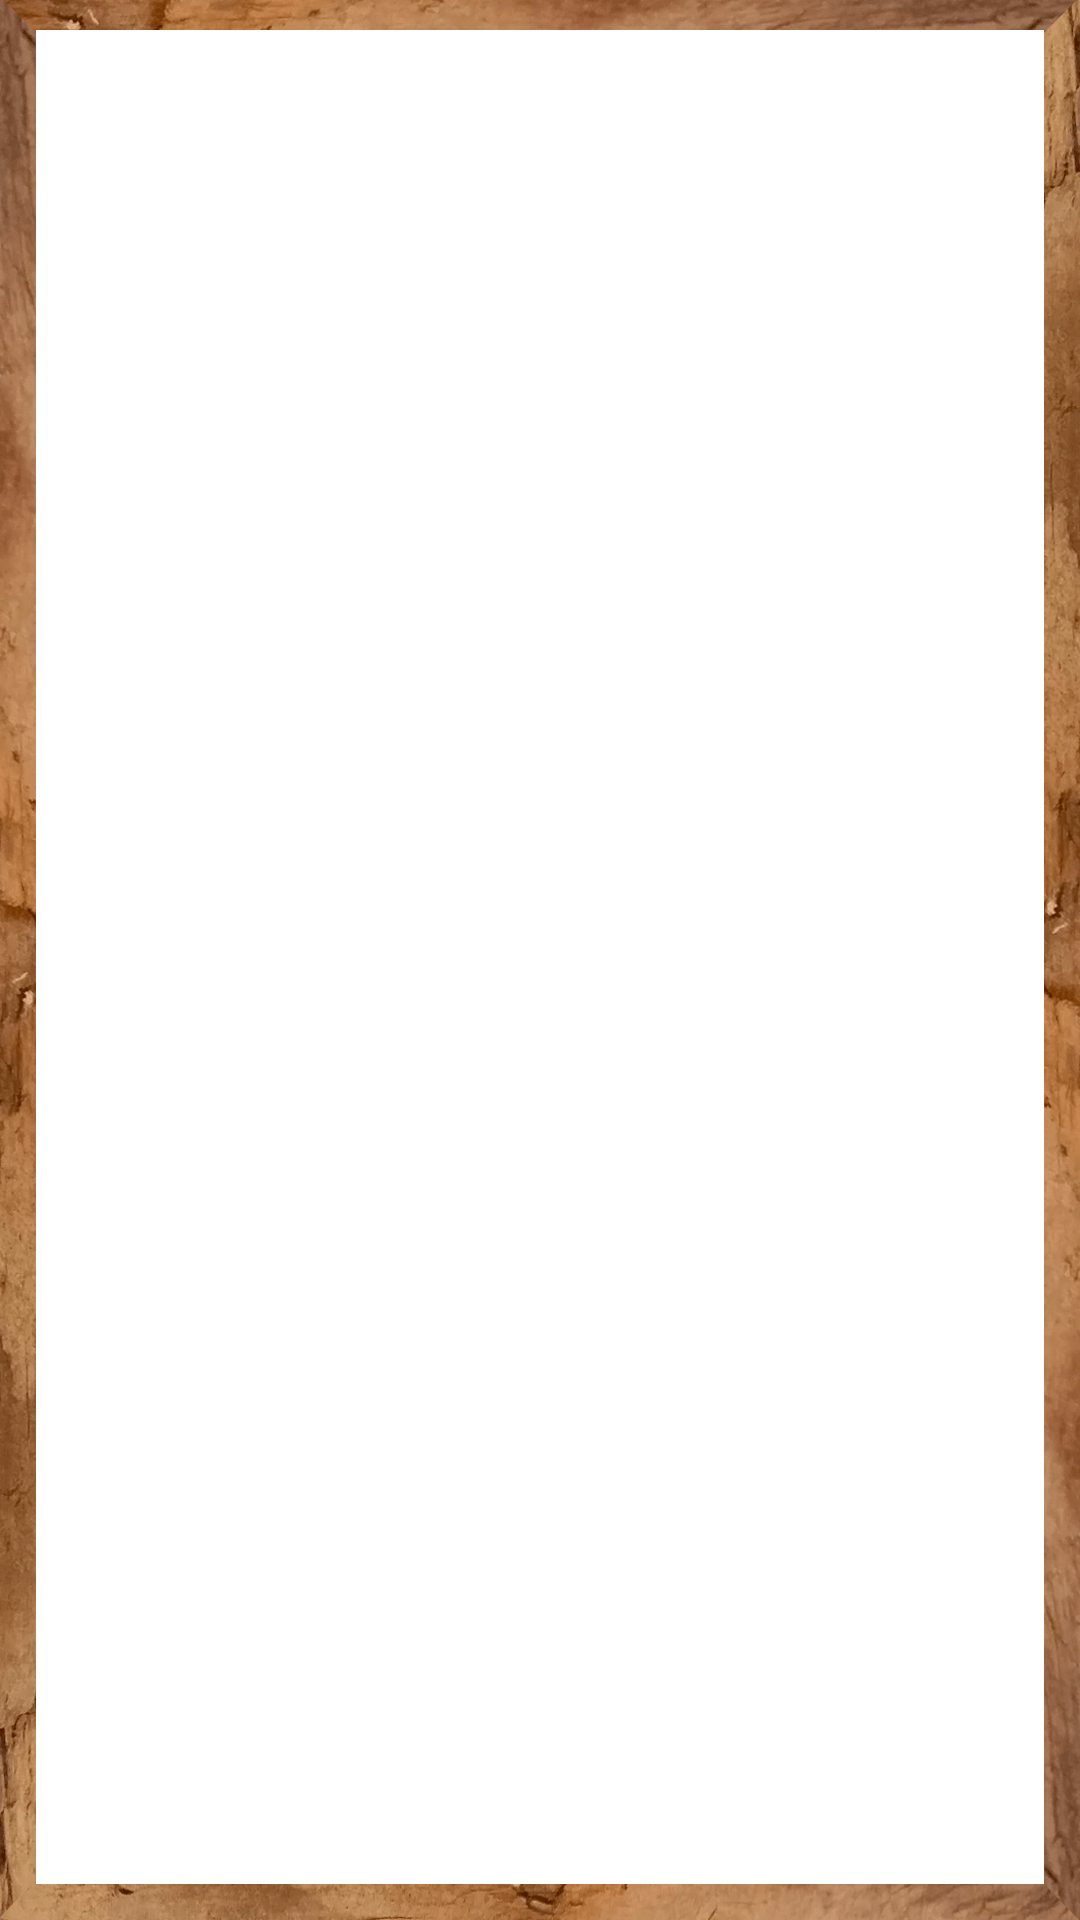
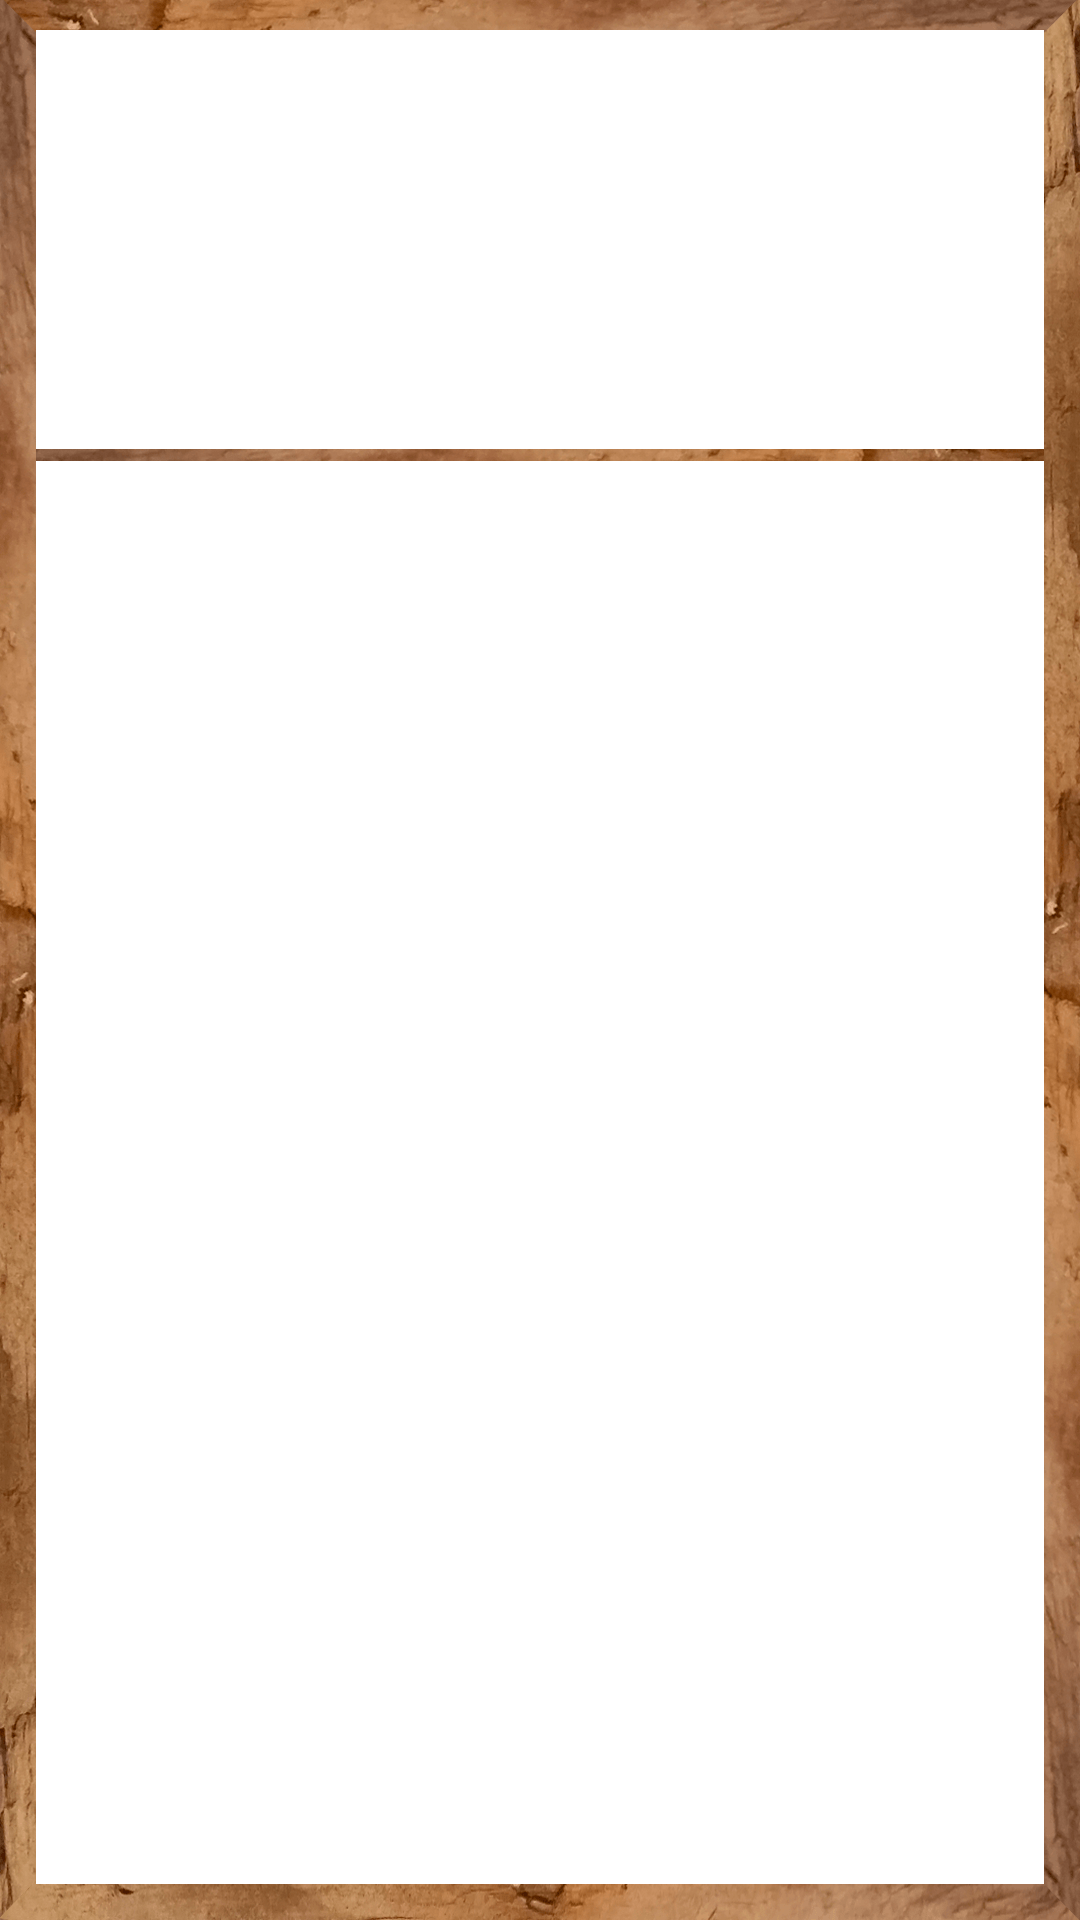
lidt af hvert

Changed region(s): [[0.0306, 0.2188, 0.9778, 0.25]]

diff --git a/style.css b/style.css
@@ -5,10 +5,13 @@ body{
   width: 1080px;
   height: 1920px;
   margin: 0 auto;
-  padding: 80px 80px 80px 80px;
+  padding: 30px 30px 30px 30px;
 
 }
 header{
+  position: relative;
+  /*background: url('img/ramme-logo.png') no-repeat;
+  background-position: center -30px;*/
   width: 100%;
   height: 450px;
 }
@@ -23,10 +26,16 @@ ul{
 /* Logo */
 #logo{
   width: 711px;
+  margin-top: 60px;
   margin-left: 184.5px;
 }
 #logo img{
   max-width: 100%;
+}
+#logo-ramme{
+  position: absolute;
+  top:0;
+  left: 118.5px;
 }
 /* Træramme*/
 .ramme{
@@ -41,7 +50,8 @@ ul{
 
 /* billede ig beskrivelser af steder */
 .holder{
-
+  position: relative;
+  height: 430px;
 }
 .holder p{
   width: 90%;
@@ -49,8 +59,15 @@ ul{
   text-align: justify;
   z-index: -1;
 }
+.holder h3{
+  margin-bottom: 5px;
+}
 .adress{
-  text-align: center;
+  position: absolute;
+  width:80%;
+  bottom: 15px;
+
+  left:10%;
 }
 
 .selected{
@@ -94,7 +111,7 @@ ul{
 }
 #description{
 
-  height: 400px;
+  height: 600px;
 }
 /* Kategorivalg */
 .dropdown{

diff --git a/index.html b/index.html
@@ -14,7 +14,7 @@
 </head>
 
 <body>
-  <header><img id="logo" src="img/logo-all-glow.png" alt=""></header>
+  <header><img id="logo" src="img/logo-all-glow.png" alt=""><img id="logo-ramme" src="img/ramme-logo.png" alt=""></header>
   <div class="ramme">
     <img src="img/ramme.png">
 </div>
